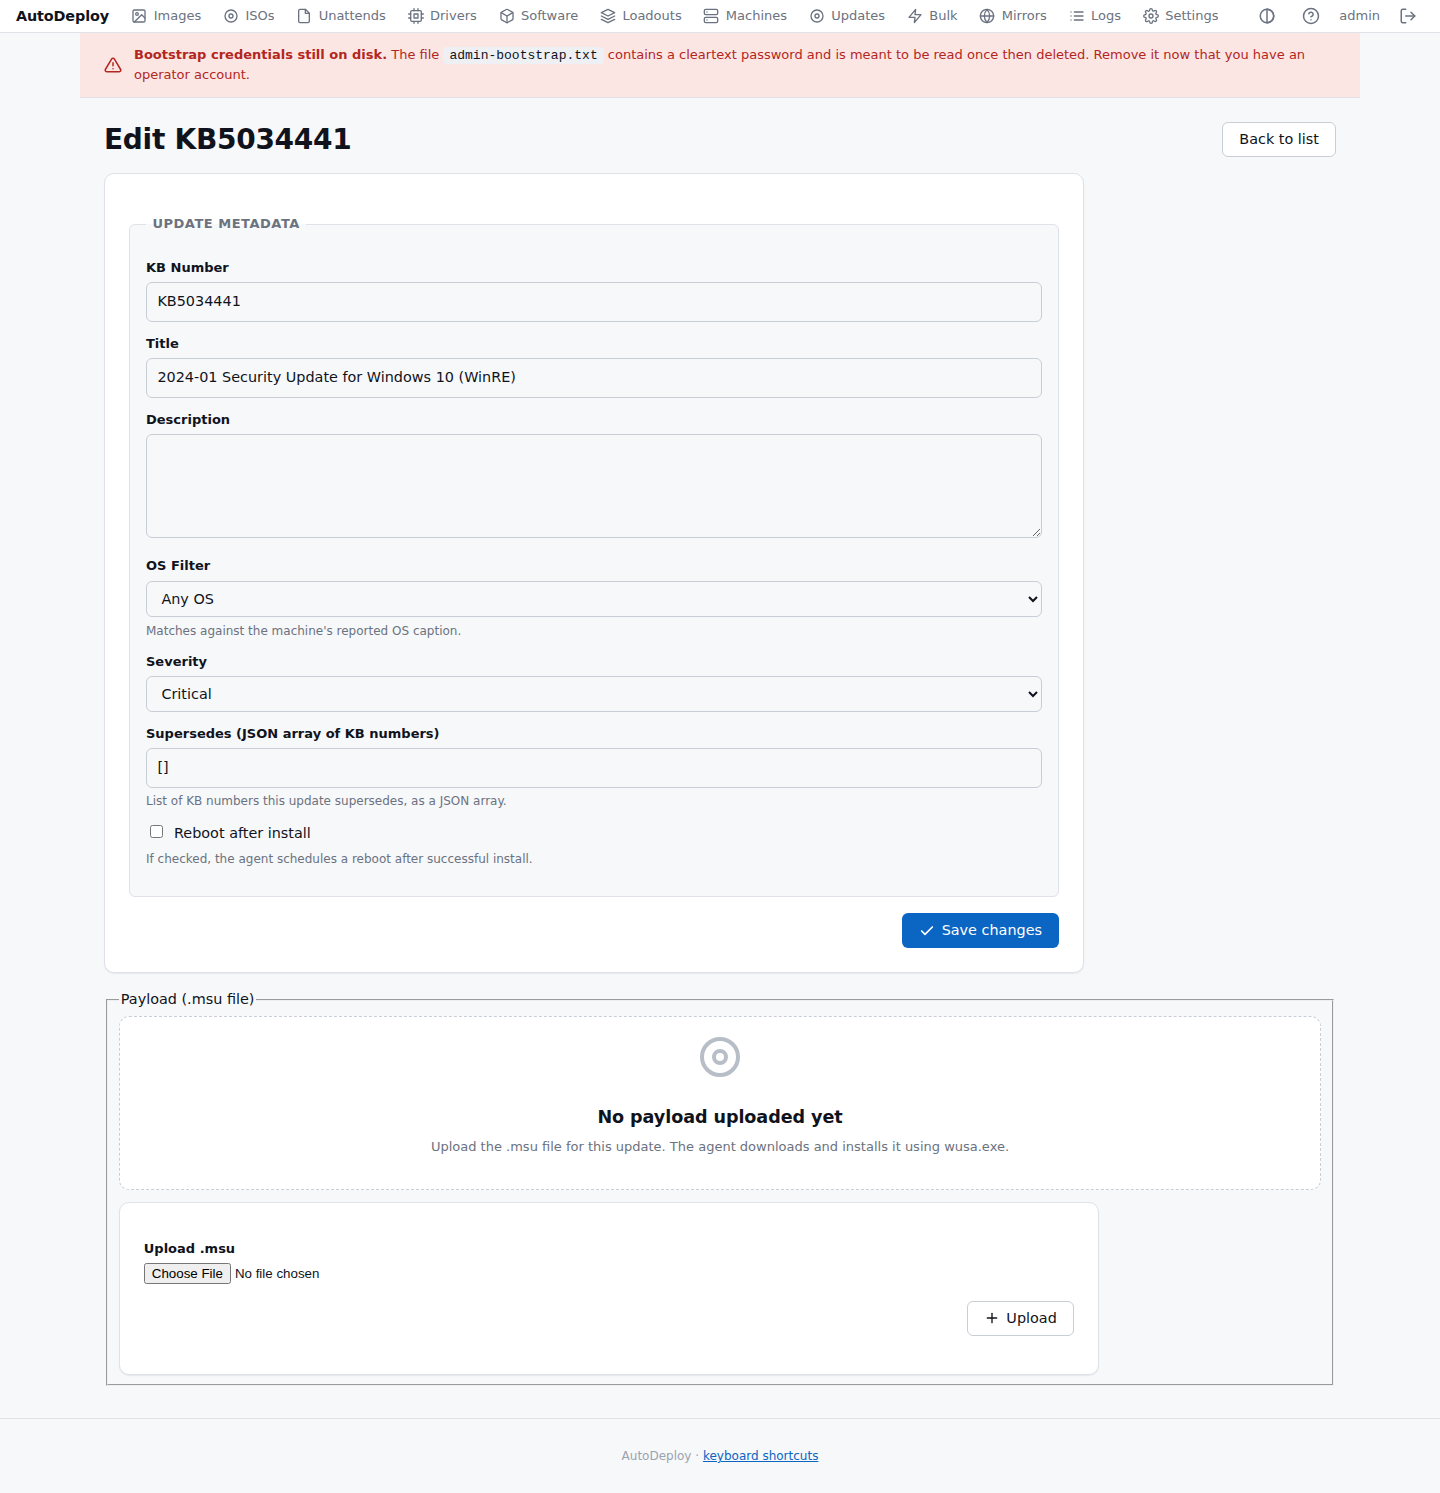
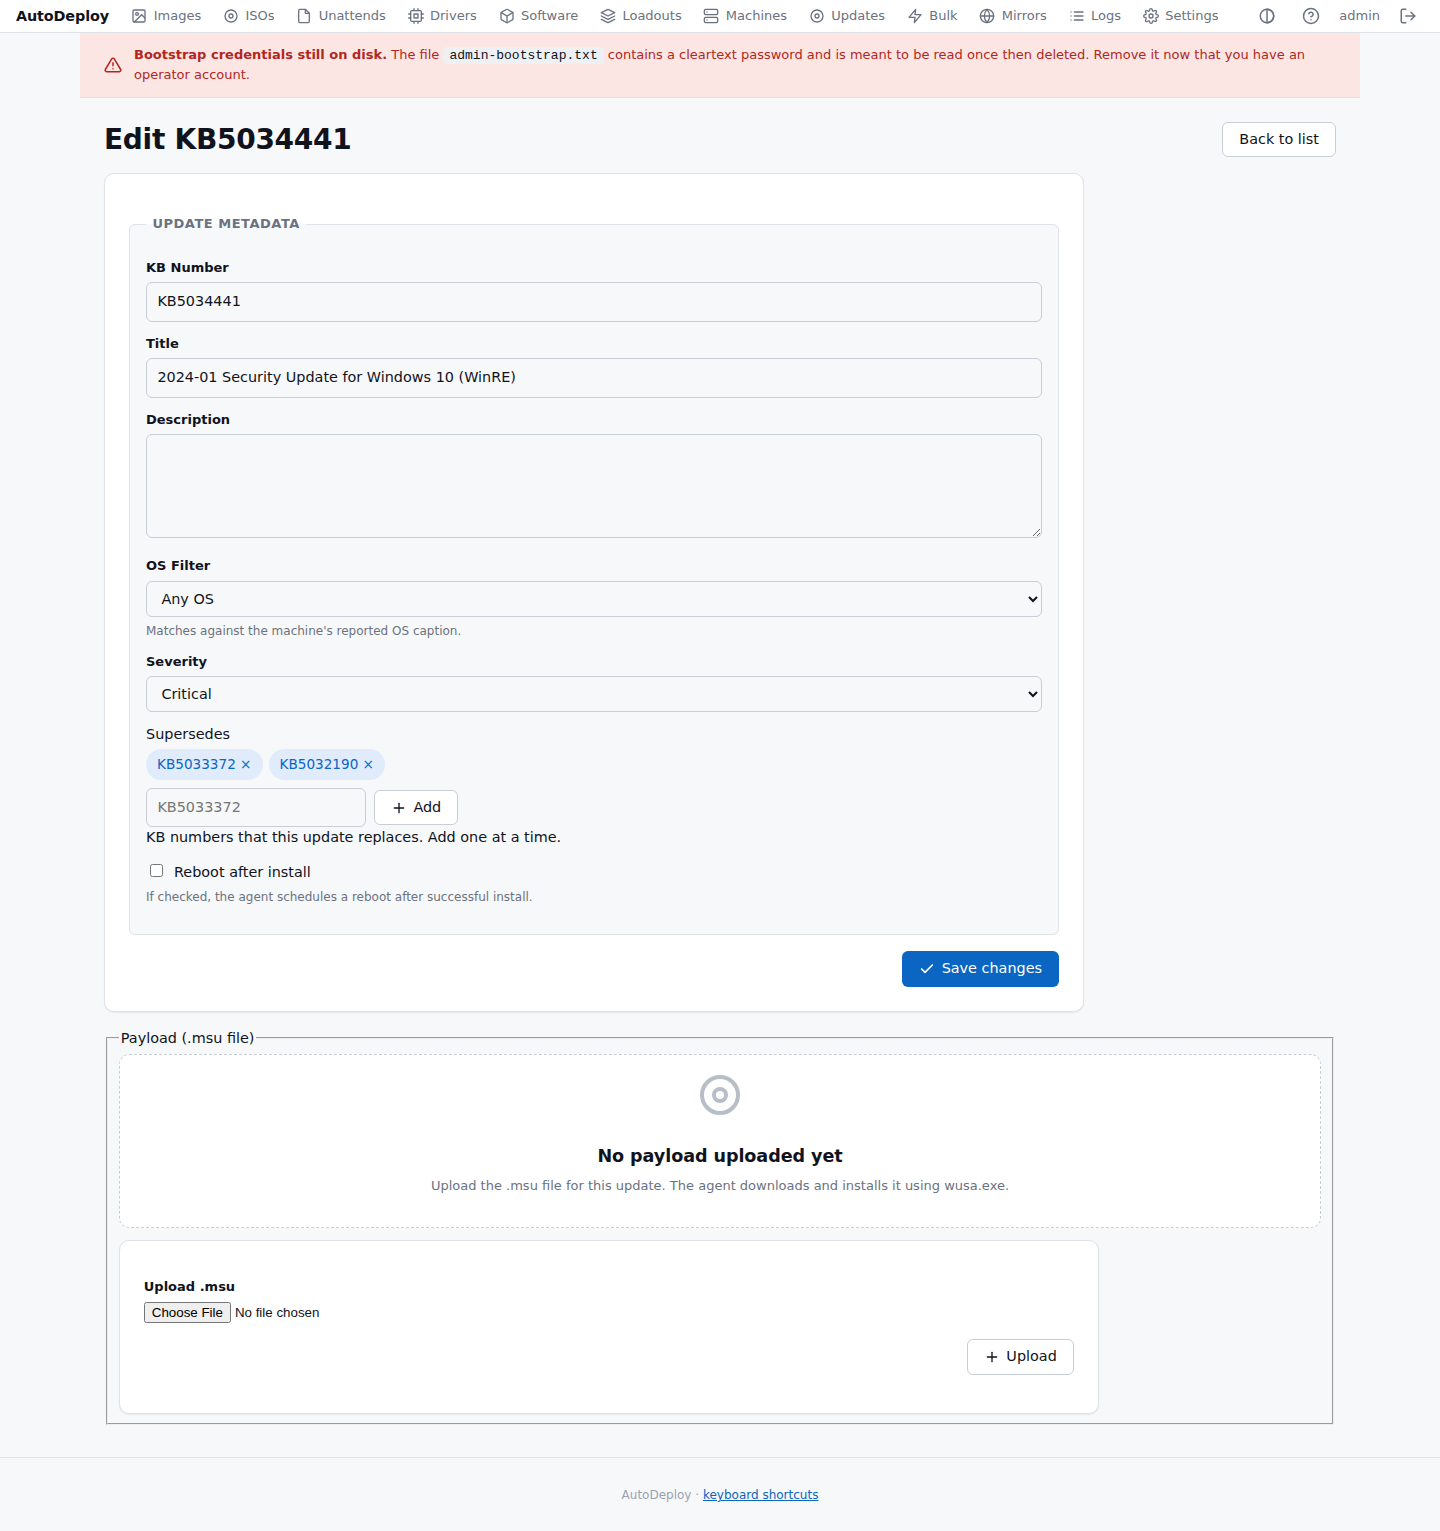
feat: replace supersedes JSON input with tag-style chip UI
The "Supersedes" field on the Windows Update form now uses clickable
badge chips instead of a raw JSON text input. Users add KB numbers one
at a time via an input + Add button, and remove them by clicking the
chip. The hidden field serializes to JSON on submit. Refreshed
screenshots.

https://claude.ai/code/session_016YSLAbrgLUtaiFLiPTmZrw

diff --git a/server/internal/portal/templates/windowsupdate_form.html b/server/internal/portal/templates/windowsupdate_form.html
@@ -40,10 +40,16 @@
         <option value="low" {{if eq $u.Severity "low"}}selected{{end}}>Low</option>
       </select>
     </label>
-    <label><span class="lbl">Supersedes (JSON array of KB numbers)</span>
-      <input type="text" name="supersedes_json" value="{{$u.SupersedesJSON}}" placeholder='["KB5033372"]'>
-      <span class="hint">List of KB numbers this update supersedes, as a JSON array.</span>
-    </label>
+    <div style="margin-bottom: var(--sp-3);">
+      <span class="lbl" style="display:block; margin-bottom: var(--sp-1);">Supersedes</span>
+      <input type="hidden" name="supersedes_json" id="supersedes_json" value="{{$u.SupersedesJSON}}">
+      <div id="supersedes_tags" style="display:flex; flex-wrap:wrap; gap:6px; margin-bottom: var(--sp-2); min-height:28px;"></div>
+      <div style="display:flex; gap:8px; align-items:center;">
+        <input type="text" id="supersedes_input" placeholder="KB5033372" style="flex:1; max-width:220px;">
+        <button type="button" class="btn secondary" onclick="addSupersedes()" style="white-space:nowrap;"><svg><use href="#i-plus"/></svg>Add</button>
+      </div>
+      <span class="hint">KB numbers that this update replaces. Add one at a time.</span>
+    </div>
     <label>
       <input type="checkbox" name="reboot_after" value="1" {{if $u.RebootAfter}}checked{{end}}>
       Reboot after install
@@ -55,6 +61,37 @@
   </div>
 </form>
 
+<script>
+var supersedesList = [];
+try { supersedesList = JSON.parse(document.getElementById('supersedes_json').value) || []; } catch(e) {}
+function renderTags() {
+  var c = document.getElementById('supersedes_tags');
+  c.innerHTML = '';
+  supersedesList.forEach(function(kb, i) {
+    var s = document.createElement('span');
+    s.className = 'badge accent';
+    s.style.cssText = 'cursor:pointer; padding: 4px 10px; font-size: 0.85rem;';
+    s.textContent = kb + ' ×';
+    s.title = 'Click to remove';
+    s.onclick = function() { supersedesList.splice(i, 1); renderTags(); };
+    c.appendChild(s);
+  });
+  document.getElementById('supersedes_json').value = JSON.stringify(supersedesList);
+}
+function addSupersedes() {
+  var input = document.getElementById('supersedes_input');
+  var v = input.value.trim().toUpperCase();
+  if (!v) return;
+  if (supersedesList.indexOf(v) === -1) supersedesList.push(v);
+  input.value = '';
+  renderTags();
+  input.focus();
+}
+document.getElementById('supersedes_input').addEventListener('keydown', function(e) {
+  if (e.key === 'Enter') { e.preventDefault(); addSupersedes(); }
+});
+renderTags();
+</script>
 {{if not $new}}
 <fieldset style="margin-top: var(--sp-4);">
   <legend>Payload (.msu file)</legend>
